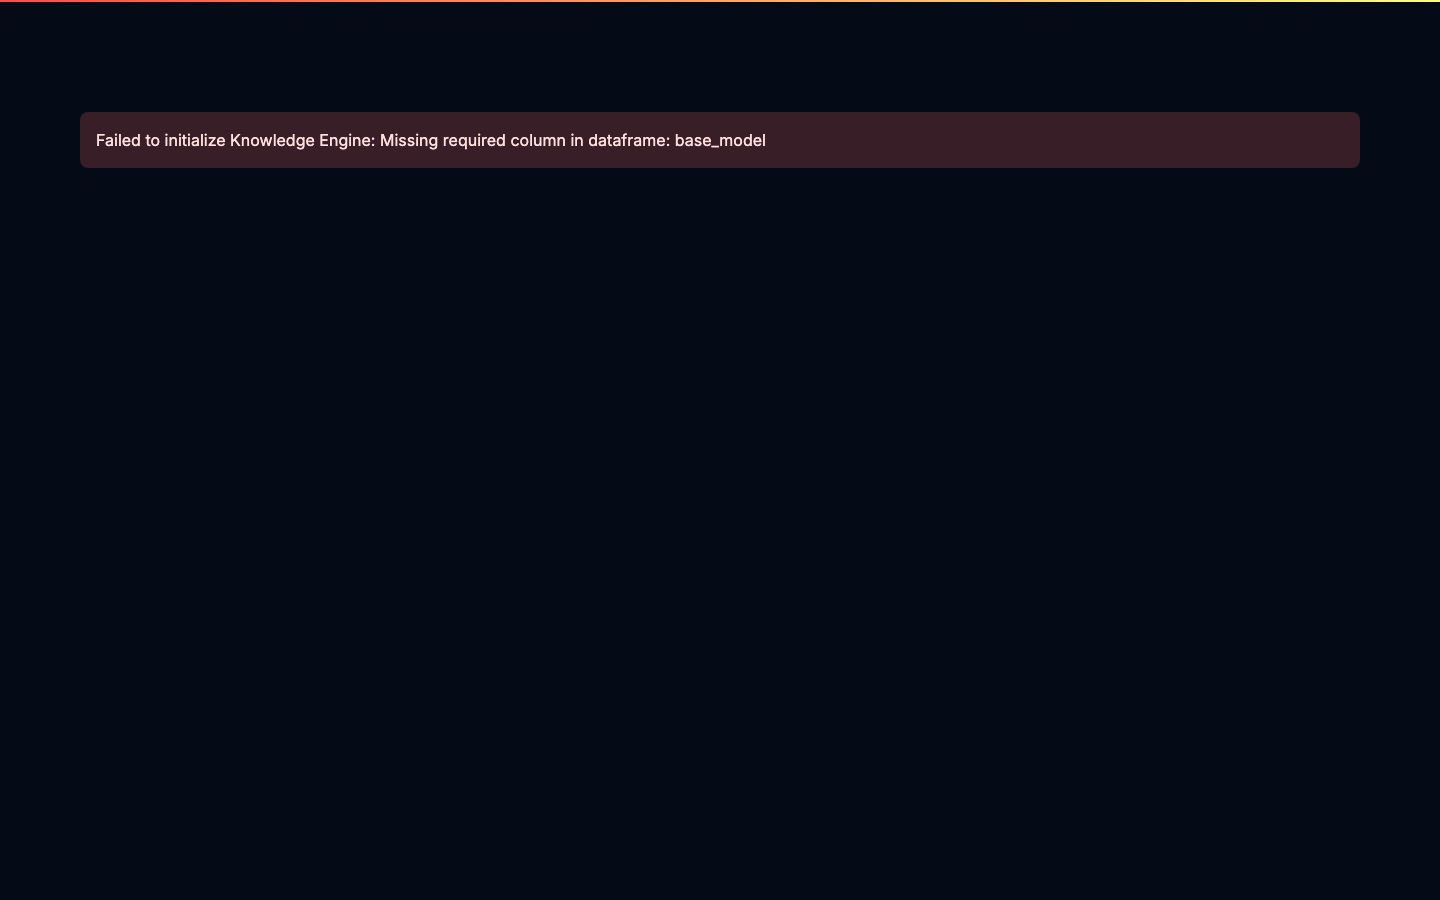
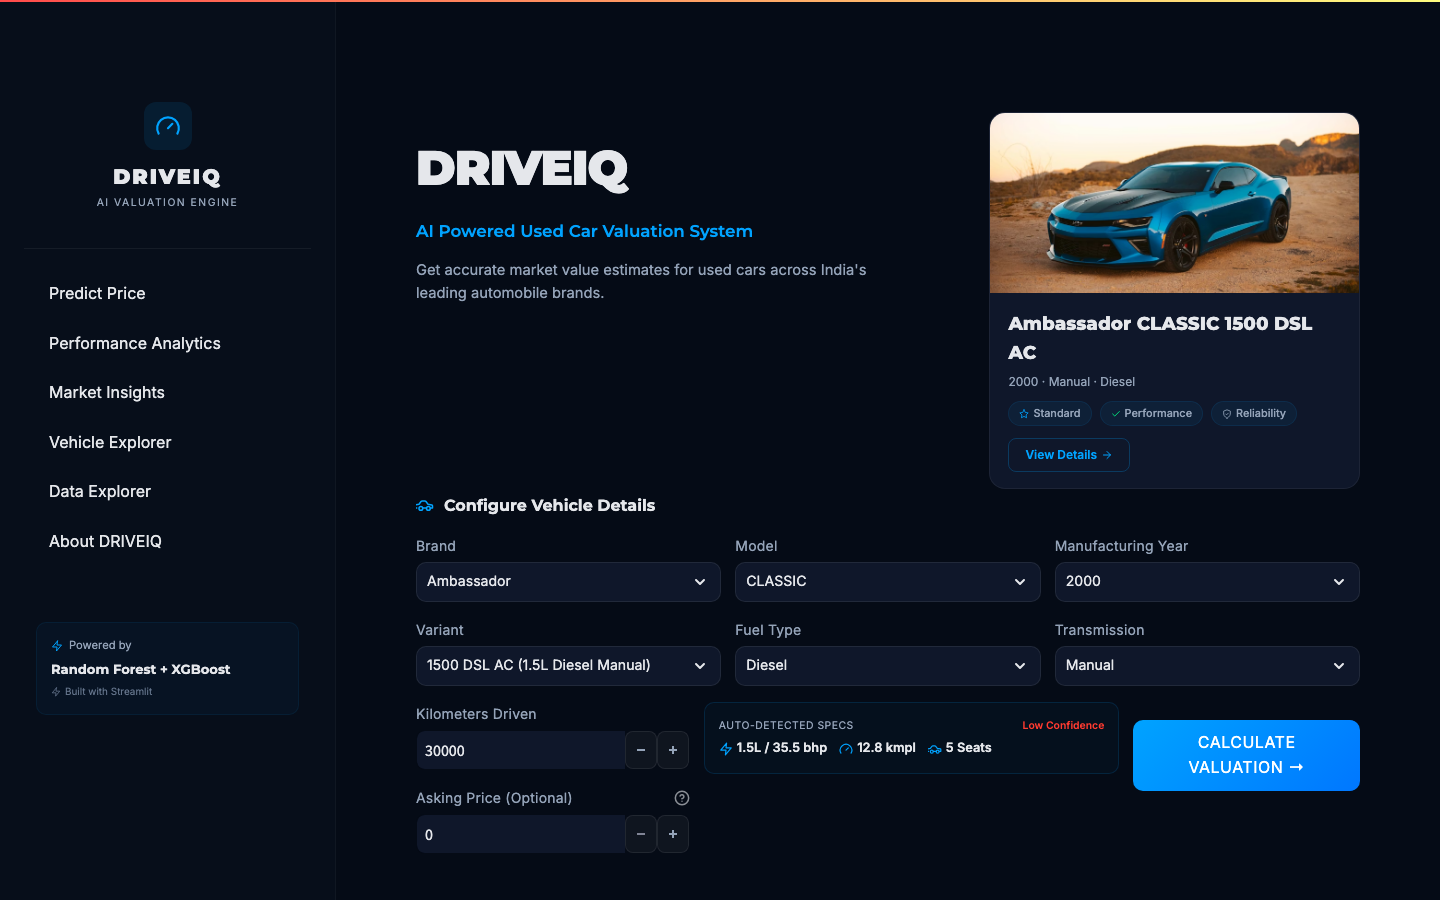
docs: Embed real application screenshots in README

diff --git a/README.md b/README.md
@@ -206,35 +206,48 @@ DRIVEIQ was subjected to rigorous validation to ensure production-grade reliabil
 
 ## 📸 Platform Capabilities & Screenshots
 
-All visual assets reside in the `assets/` directory.
+All visual assets reside in the `assets/` directory and reflect the live, running application.
 
 ### Core Interface
-| Landing Page | Vehicle Configuration | AI Dashboard |
+| Landing Page | Vehicle Configuration | Prediction Dashboard |
 | :---: | :---: | :---: |
-| ![Landing](assets/landing.png) | ![Configuration](assets/configuration.png) | ![Dashboard](assets/dashboard.png) |
+| ![Landing Page](assets/landing.png)<br><sub>The entry point with dynamic market insights.</sub> | ![Configuration](assets/configuration.png)<br><sub>Auto-populating specification options via the Knowledge Engine.</sub> | ![Dashboard](assets/valuation-dashboard.png)<br><sub>The full ML inference and analysis overview.</sub> |
 
-### Decision Support
-| Market Intelligence | Negotiation Assistant | Ownership Analysis |
-| :---: | :---: | :---: |
-| ![Market Intel](assets/market_intelligence.png) | ![Negotiation](assets/negotiation.png) | ![Ownership](assets/ownership.png) |
+### Decision Intelligence
+| Hero Card | AI Summary | Negotiation Assistant | Risk Analysis |
+| :---: | :---: | :---: | :---: |
+| ![Hero Card](assets/hero-card.png)<br><sub>The unified Deal Score and recommendation.</sub> | ![AI Summary](assets/ai-summary.png)<br><sub>Natural language XAI feature breakdown.</sub> | ![Negotiation](assets/negotiation-assistant.png)<br><sub>Stress-testing asking prices against market reality.</sub> | ![Risk Analysis](assets/risk-analysis.png)<br><sub>Categorizing brand liquidity and maintenance risks.</sub> |
 
-### Documentation
-| PDF Report | Architecture Diagram | Workflow |
-| :---: | :---: | :---: |
-| ![PDF Report](assets/pdf-report.png) | ![Architecture](assets/architecture.png) | ![Workflow](assets/workflow.png) |
+### Market Intelligence
+| Market Intelligence Overview | Ownership Cost | Future Value Forecast | Similar Vehicles |
+| :---: | :---: | :---: | :---: |
+| ![Market Intel](assets/market-intelligence.png)<br><sub>Aggregated depreciation and running costs.</sub> | ![Ownership Cost](assets/ownership-cost.png)<br><sub>Highly realistic 5-year expense projections.</sub> | ![Future Value](assets/future-value.png)<br><sub>Multi-year depreciation curve plotting.</sub> | ![Similar Vehicles](assets/similar-vehicles.png)<br><sub>Identifying market alternatives based on specs.</sub> |
+
+### Professional Reports & Mobile
+| PDF Report Preview | Mobile Experience |
+| :---: | :---: |
+| ![PDF Report](assets/pdf-report.png)<br><sub>Exporting full dashboard analysis to an offline FPDF document.</sub> | ![Mobile View](assets/mobile-view.png)<br><sub>Responsive layout adapting to mobile viewports.</sub> |
 
 ---
 
 ## 📂 Repository Assets
 
-The repository utilizes a centralized `assets/` directory to store static graphics for this README:
+The repository utilizes a centralized `assets/` directory to store high-fidelity, real screenshots of the application:
 * `assets/banner.png` — Main repository hero graphic.
 * `assets/logo.png` — DRIVEIQ branding logo.
-* `assets/dashboard.png` — High-fidelity mockup of the AI Dashboard.
-* `assets/pdf-report.png` — Example FPDF generated offline report.
-* `assets/architecture.png` — Visual map of the internal system architecture.
-* `assets/workflow.png` — Sequence diagram of user interaction.
-* `assets/demo.gif` — Animated GIF showcasing the platform in action.
+* `assets/landing.png` — Clean screenshot of the initial application state.
+* `assets/configuration.png` — Demonstration of dynamic form population.
+* `assets/valuation-dashboard.png` — Full page capture of the prediction engine.
+* `assets/hero-card.png` — Focused shot of the primary Deal Score module.
+* `assets/ai-summary.png` — Focused shot of the Explainable AI (SHAP) text.
+* `assets/risk-analysis.png` — The dynamic risk profiling component.
+* `assets/market-intelligence.png` — The Market Intelligence tab overview.
+* `assets/negotiation-assistant.png` — The buyer insights and negotiation slider.
+* `assets/ownership-cost.png` — The 5-year running cost breakdown chart.
+* `assets/future-value.png` — The depreciation forecast line chart.
+* `assets/similar-vehicles.png` — The nearest neighbor market alternatives.
+* `assets/pdf-report.png` — The offline document generation section.
+* `assets/mobile-view.png` — Representation of the responsive UI on mobile devices.
 
 ---
 